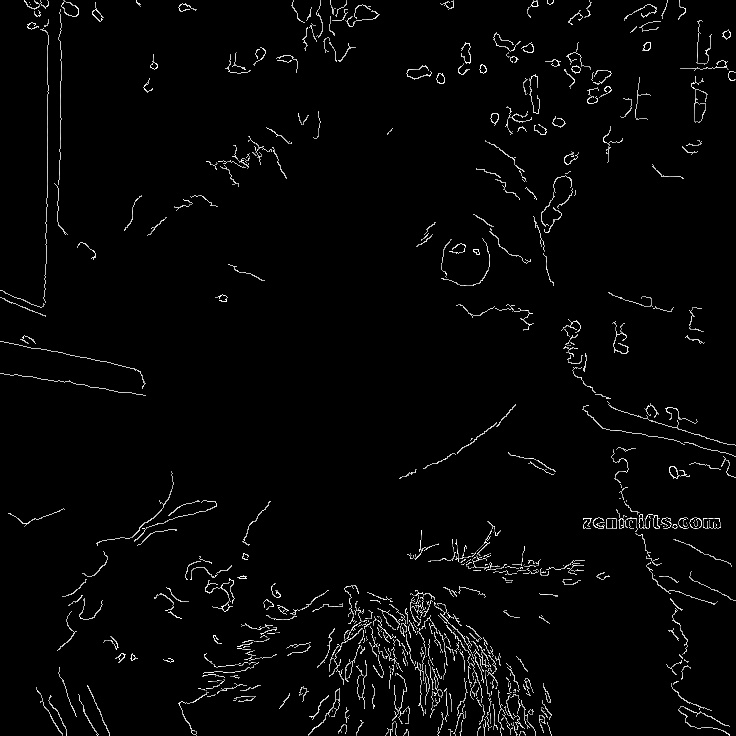
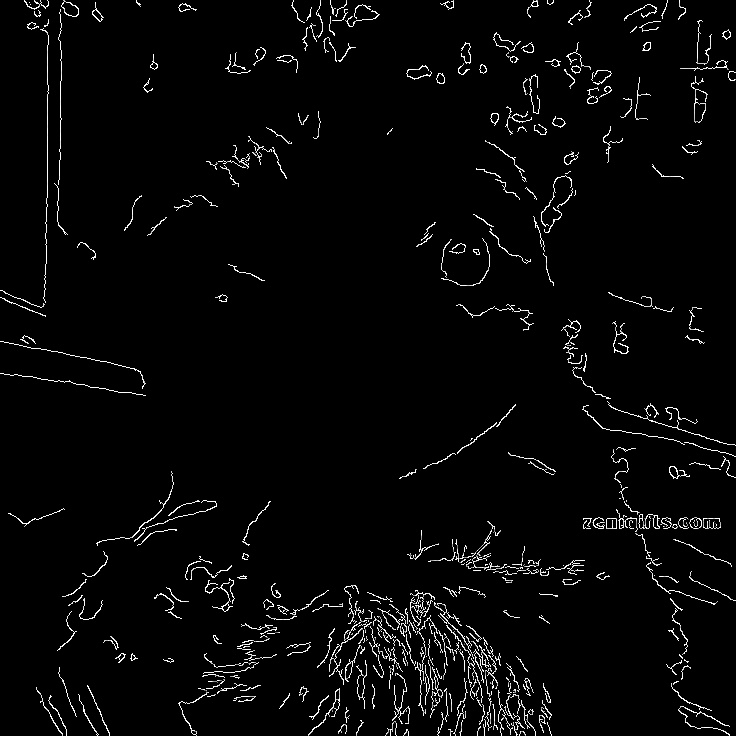
Working Project

diff --git a/app.py b/app.py
@@ -1,0 +1,125 @@
+import io
+import cv2
+import numpy as np
+import streamlit as st
+from PIL import Image
+
+
+# ----------- Sketch Functions -----------
+
+def pencil_sketch(image, blur_ksize=21, strength=256):
+    gray = cv2.cvtColor(image, cv2.COLOR_RGB2GRAY)
+
+    inverted = 255 - gray
+
+    if blur_ksize < 3:
+        blur_ksize = 3
+
+    if blur_ksize % 2 == 0:
+        blur_ksize += 1
+
+    blurred = cv2.GaussianBlur(inverted, (blur_ksize, blur_ksize), 0)
+
+    inverted_blur = 255 - blurred
+
+    sketch = cv2.divide(gray, inverted_blur, scale=strength)
+
+    return sketch
+
+
+def edge_sketch(image):
+    gray = cv2.cvtColor(image, cv2.COLOR_RGB2GRAY)
+
+    smooth = cv2.bilateralFilter(gray, 9, 75, 75)
+
+    edges = cv2.Canny(smooth, 50, 150)
+
+    edges = 255 - edges
+
+    return edges
+
+
+def convert_to_downloadable_image(image_array):
+    image_pil = Image.fromarray(image_array)
+    buffer = io.BytesIO()
+    image_pil.save(buffer, format="PNG")
+    buffer.seek(0)
+    return buffer
+
+
+# ----------- Streamlit App -----------
+
+st.set_page_config(
+    page_title="Pencil Sketch Converter",
+    page_icon="✏️",
+    layout="wide"
+)
+
+st.title("✏️ Image to Pencil Sketch Converter")
+
+st.write(
+    "Upload a color image and convert it into a pencil-sketch-style image "
+    "using classical image processing techniques."
+)
+
+st.sidebar.header("Settings")
+
+mode = st.sidebar.selectbox(
+    "Choose sketch mode",
+    ["Classic Pencil Sketch", "Edge-Based Sketch"]
+)
+
+blur = st.sidebar.slider(
+    "Blur Size",
+    min_value=3,
+    max_value=99,
+    value=21,
+    step=2
+)
+
+strength = st.sidebar.slider(
+    "Sketch Strength",
+    min_value=100,
+    max_value=400,
+    value=256,
+    step=10
+)
+
+uploaded_file = st.file_uploader(
+    "Upload an image",
+    type=["jpg", "jpeg", "png"]
+)
+
+if uploaded_file is not None:
+    image = Image.open(uploaded_file).convert("RGB")
+    image_np = np.array(image)
+
+    if mode == "Classic Pencil Sketch":
+        result = pencil_sketch(image_np, blur, strength)
+
+    else:
+        sketch = pencil_sketch(image_np, blur, strength)
+        edges = edge_sketch(image_np)
+        result = cv2.bitwise_and(sketch, edges)
+
+    col1, col2 = st.columns(2)
+
+    with col1:
+        st.subheader("Original Image")
+        st.image(image, use_container_width=True)
+
+    with col2:
+        st.subheader("Sketch Result")
+        st.image(result, clamp=True, use_container_width=True)
+
+    download_image = convert_to_downloadable_image(result)
+
+    st.download_button(
+        label="Download Sketch",
+        data=download_image,
+        file_name="pencil_sketch.png",
+        mime="image/png"
+    )
+
+else:
+    st.info("Upload an image to start.")

diff --git a/main.py b/main.py
@@ -24,7 +24,7 @@ def edge_sketch(image):
 # ----------- Process Single Image -----------
 
 def process_single(input_path, output_path, mode="classic",
-                   blur=21, strength=256):
+                    blur=21, strength=256):
 
     img = cv2.imread(input_path)
 